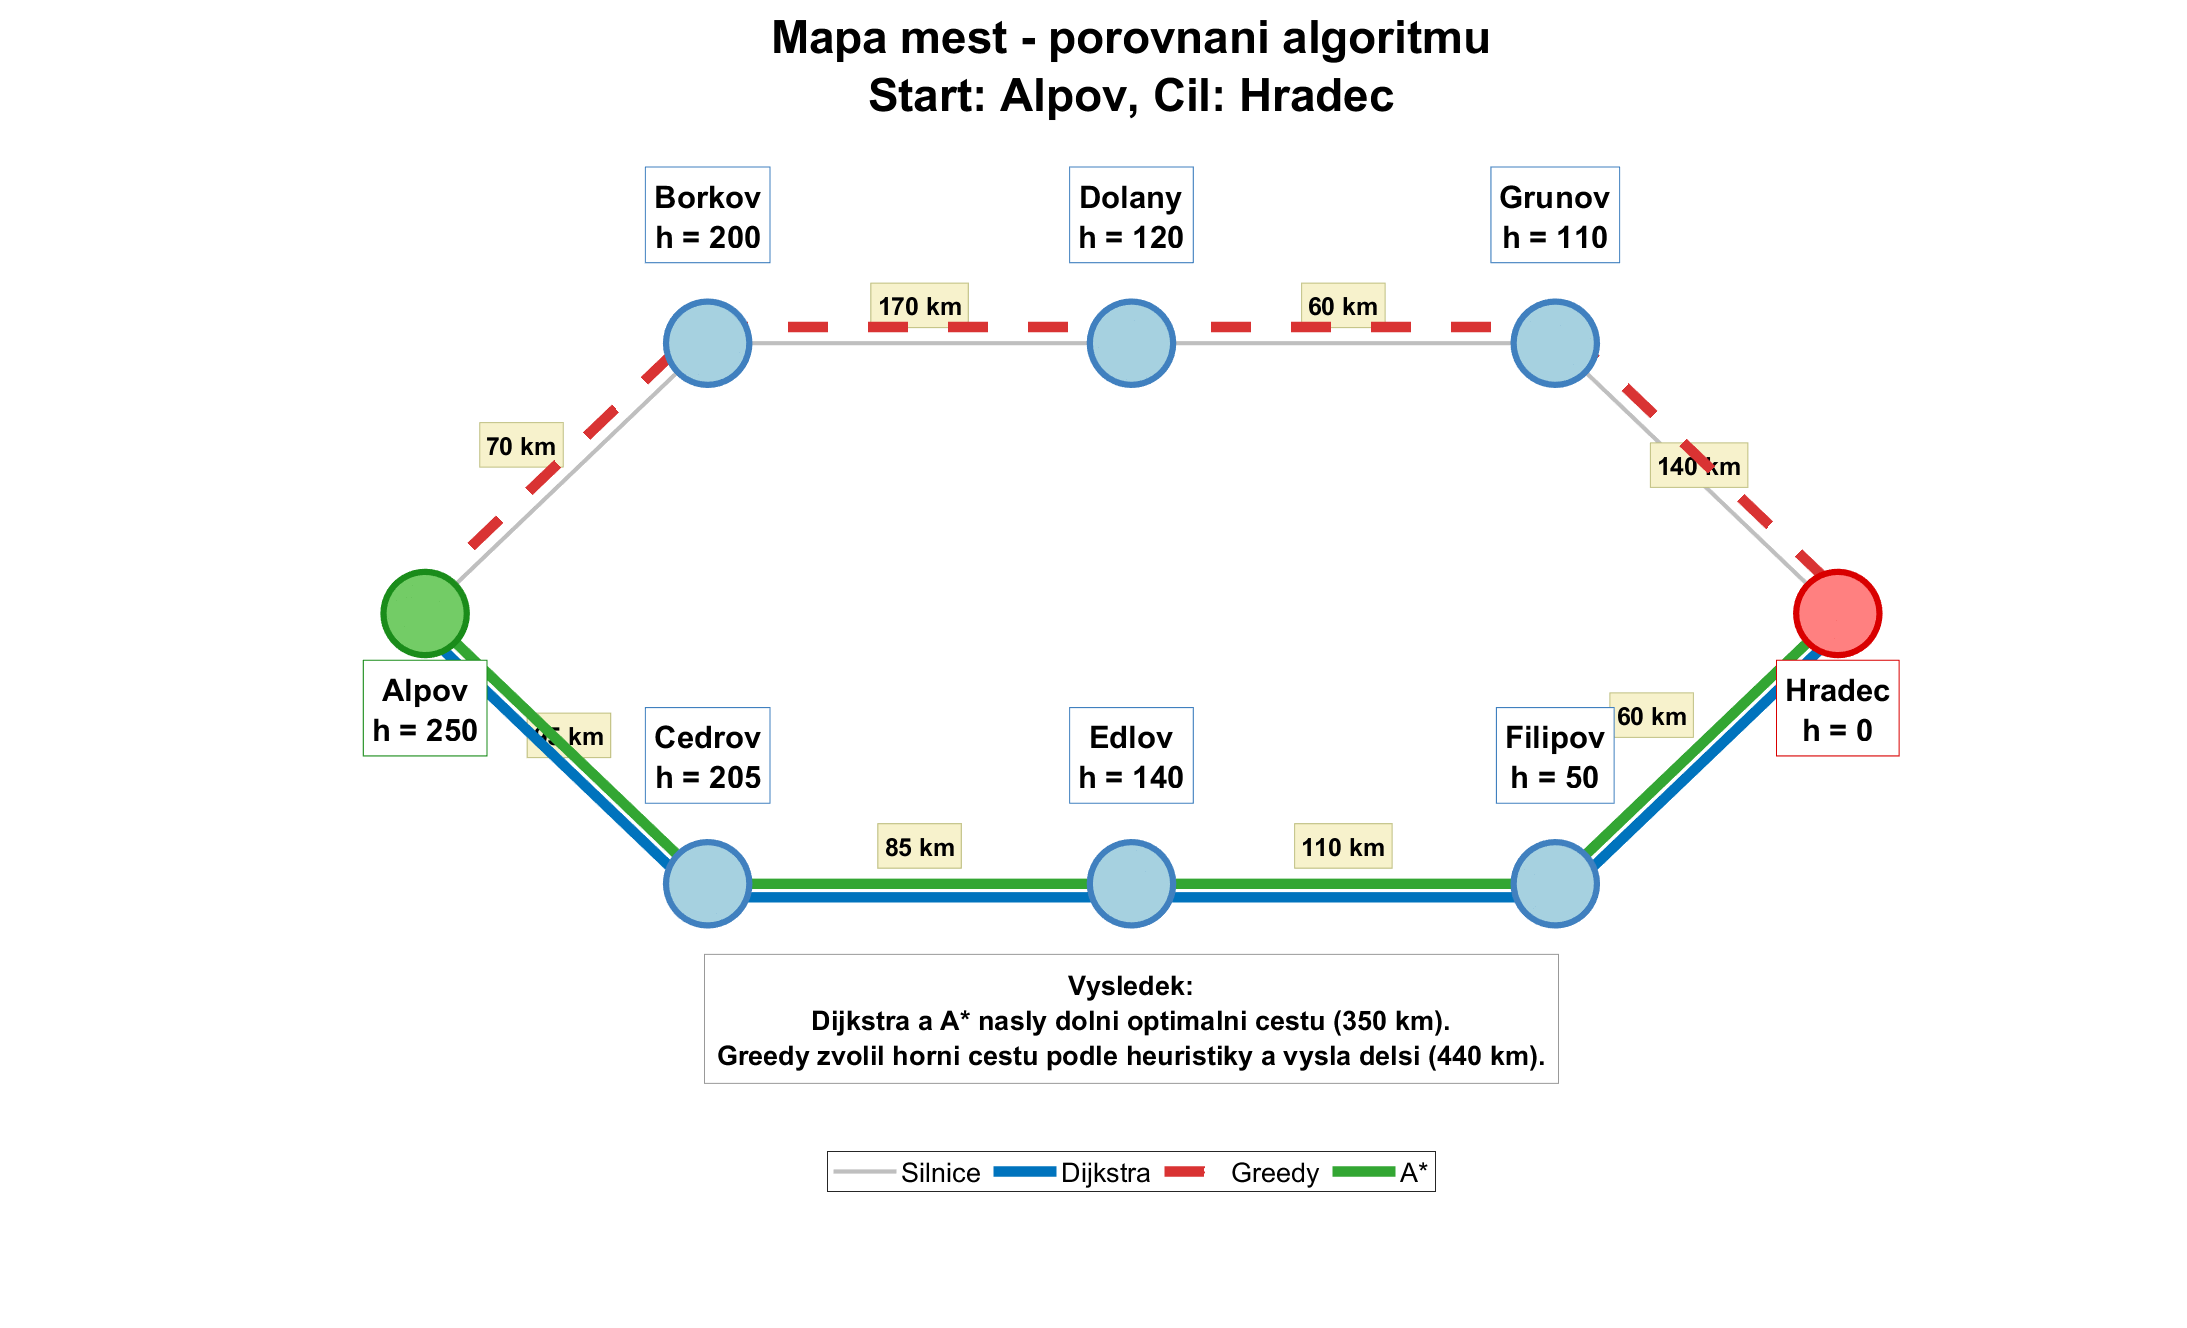
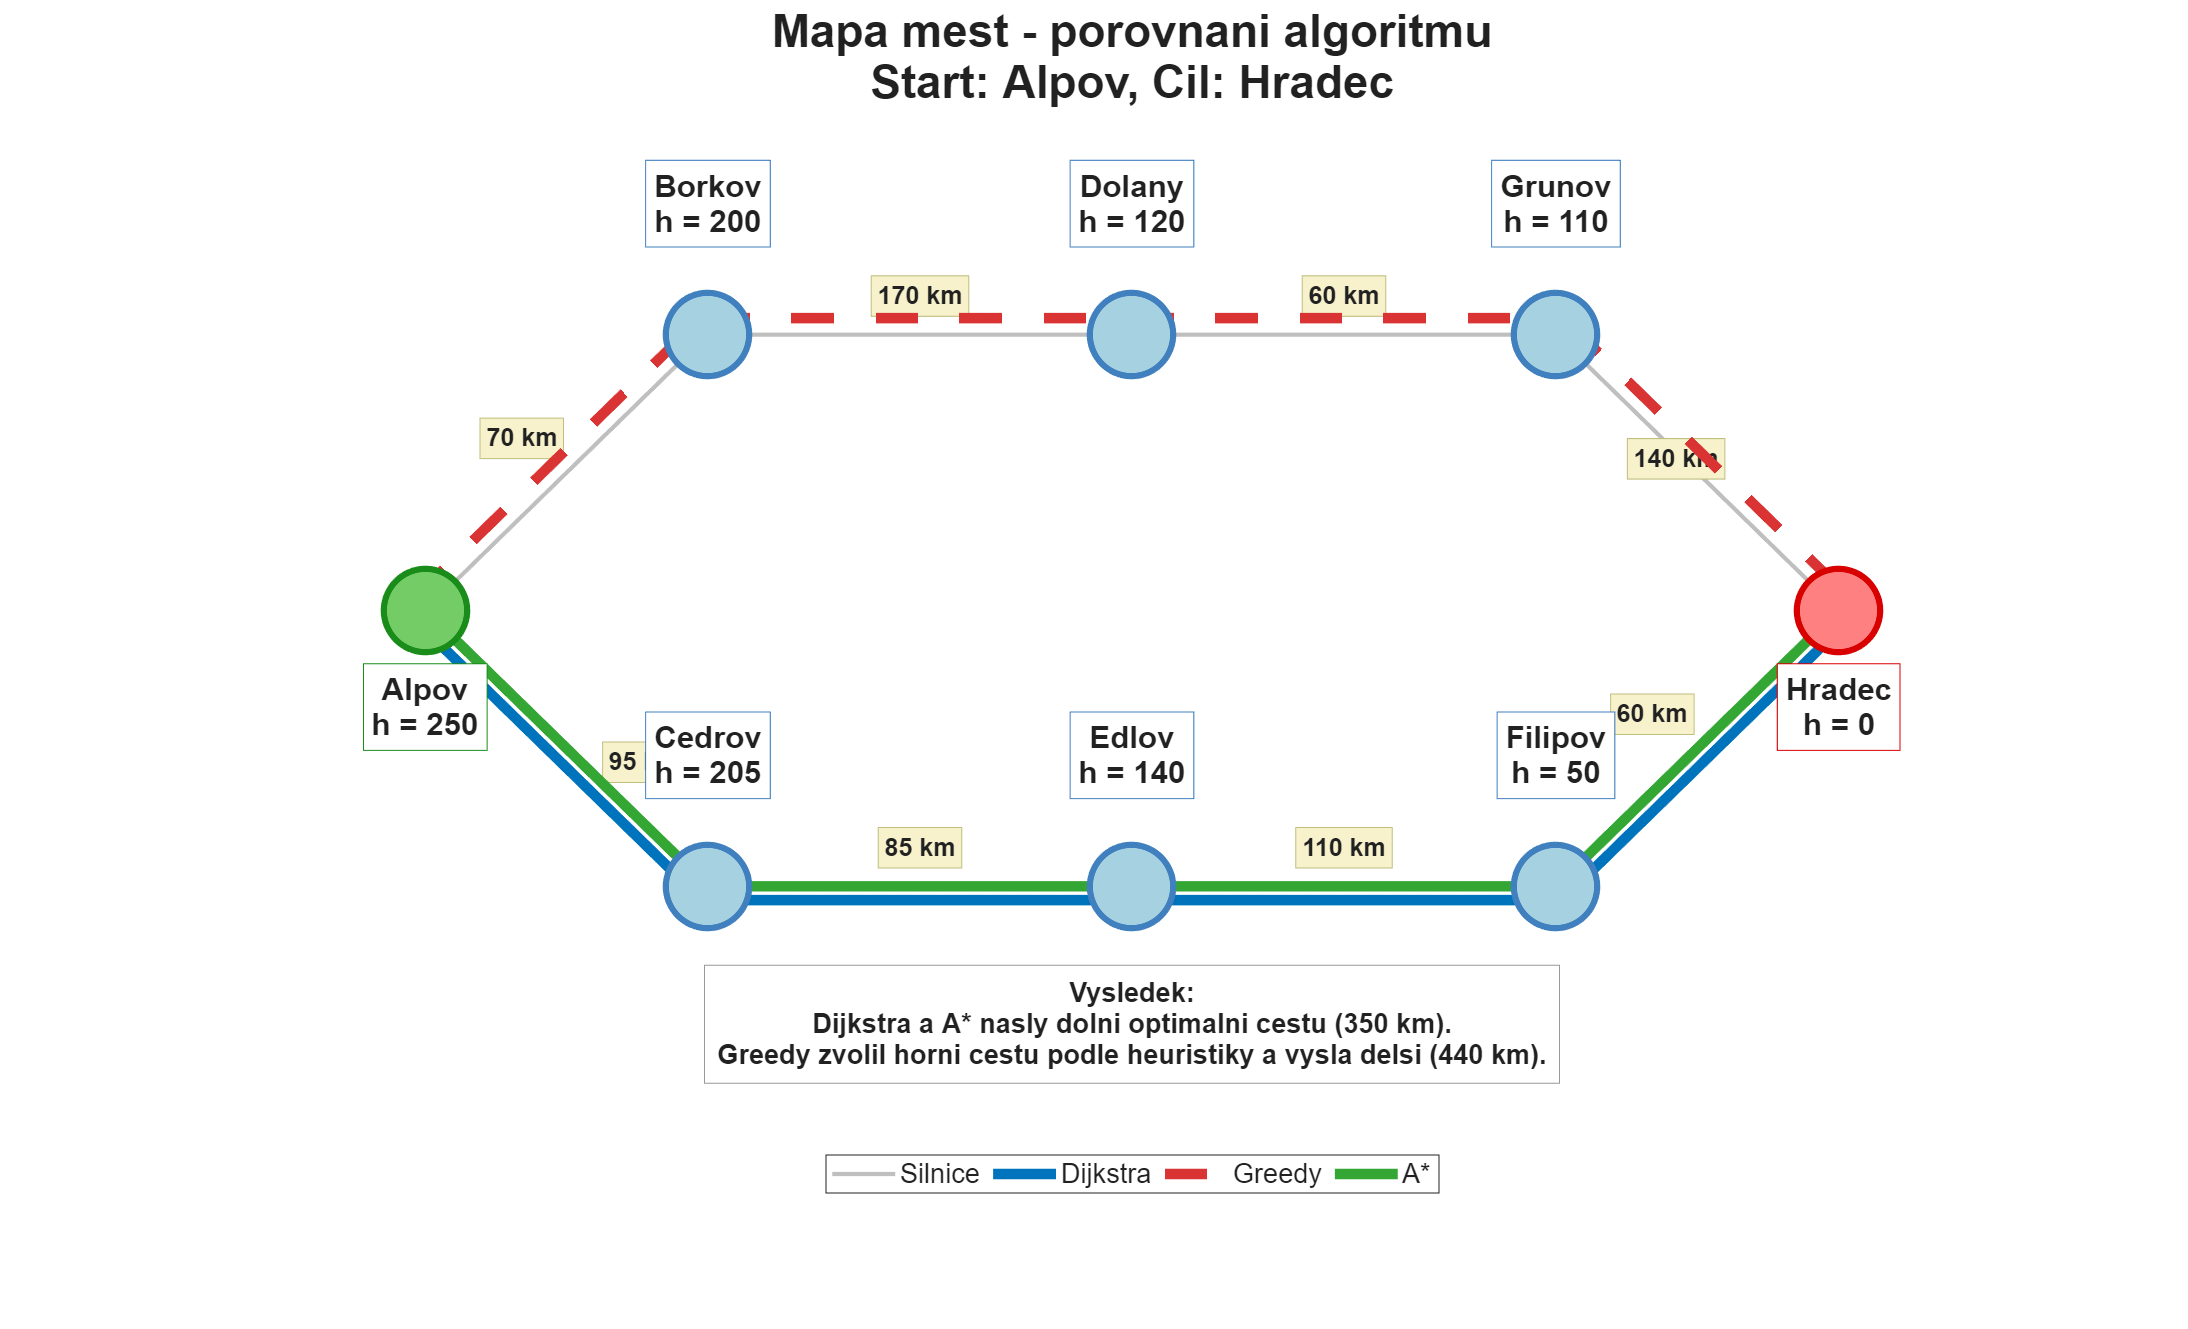
Cv. 4: update

diff --git a/cv04-astar/ukol2_mapa/cv04_uloha2.m b/cv04-astar/ukol2_mapa/cv04_uloha2.m
@@ -97,7 +97,6 @@ function vykresli_mapu_prehledne(mesta, adj, h, pozice, start, cil, cesta_dijkst
                 mx = (pozice(i,1) + pozice(j,1)) / 2;
                 my = (pozice(i,2) + pozice(j,2)) / 2;
 
-                % automaticky posun popisku podle smeru hrany
                 dx = pozice(j,1) - pozice(i,1);
                 dy = pozice(j,2) - pozice(i,2);
                 delka = sqrt(dx^2 + dy^2);
@@ -109,11 +108,10 @@ function vykresli_mapu_prehledne(mesta, adj, h, pozice, start, cil, cesta_dijkst
                     nx = -dy / delka;
                     ny =  dx / delka;
 
-                    % zakladni posun od hrany
                     ox = 0.28 * nx;
                     oy = 0.28 * ny;
 
-                    % jemne doladeni pro diagonalni hrany vlevo/vpravo
+                    % obecne jemne doladeni
                     if dx > 0 && dy < 0
                         ox = ox - 0.18;
                         oy = oy - 0.10;
@@ -121,6 +119,18 @@ function vykresli_mapu_prehledne(mesta, adj, h, pozice, start, cil, cesta_dijkst
                         ox = ox - 0.12;
                         oy = oy + 0.05;
                     end
+                end
+
+                % specialni rucni oprava pro Alpov -> Cedrov (95 km)
+                if i == 1 && j == 3
+                    ox = 0.55;
+                    oy = -0.10;
+                end
+
+                % specialni rucni oprava pro Grunov -> Hradec (140 km)
+                if i == 6 && j == 8
+                    ox = -0.15;
+                    oy = 0.10;
                 end
 
                 text(mx + ox, my + oy, sprintf('%d km', adj(i,j)), ...
